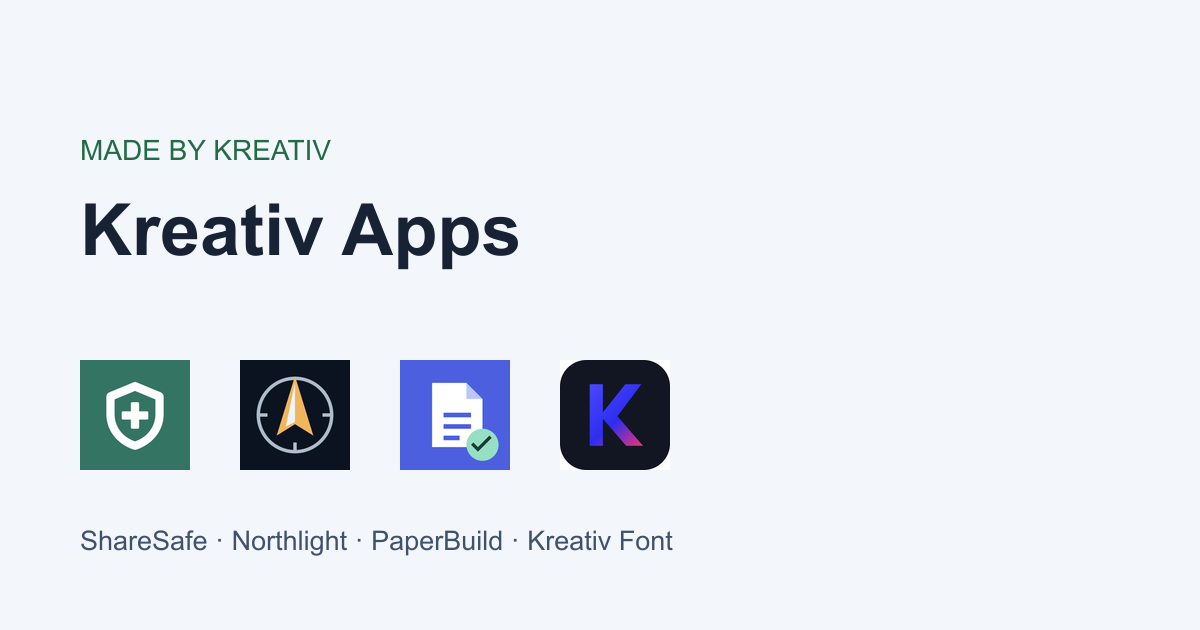
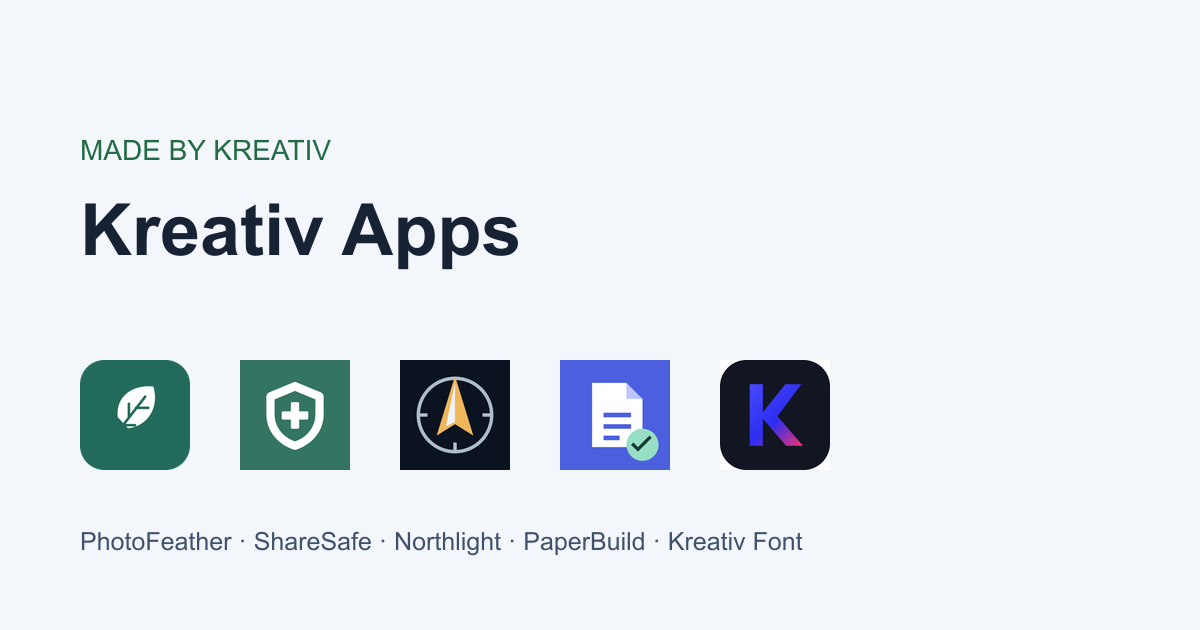
Publish PhotoFeather tutorial and app page

diff --git a/src/data/apps.ts b/src/data/apps.ts
@@ -20,6 +20,21 @@ export interface KreativApp {
 
 export const apps: KreativApp[] = [
   {
+    slug: "photofeather",
+    name: "PhotoFeather",
+    category: "Photo compression",
+    accessLabel: "Free",
+    privacyUrl: "/privacy/photofeather/",
+    privacyNote: "Photos are processed on-device, with no account, ads, analytics SDK or internet permission. Android's system picker may retrieve a photo from a cloud provider you choose.",
+    description: "Compress and resize photos for forms, email and sharing. Check measured results and save new JPEG copies while keeping your originals.",
+    proDescription: "All described features are included in version 1.0.0, with no purchases or subscriptions.",
+    screenshotWidth: 1188,
+    screenshotHeight: 2112,
+    stores: [{platform: "Android", name: "Google Play", url: "https://play.google.com/store/apps/details?id=com.kreativ.photofeather"}],
+    features: ["Choose a 200 KB, 500 KB, 1 MB or custom file-size target", "Resize with Small, Medium, Large or custom longest-edge settings", "Check actual file sizes and dimensions, compare before and after, then save or share new copies"],
+    limitation: "Output is lossy JPEG; quality and savings vary. Targets can reduce dimensions and may not always be met. Inputs are JPEG, PNG and static WebP. Metadata removal does not hide visible sensitive details.",
+  },
+  {
     slug: "sharesafe",
     name: "ShareSafe",
     category: "Photo privacy",

diff --git a/src/content.config.ts b/src/content.config.ts
@@ -11,7 +11,7 @@ const news = defineCollection({
     modifiedDate: z.date().optional(),
     category: z.enum(["Product", "Project", "Ecosystem", "Engineering"]),
     project: z.string().optional(),
-    app: z.enum(["sharesafe", "northlight", "paperbuild", "kreativ-font"]).optional(),
+    app: z.enum(["sharesafe", "northlight", "paperbuild", "kreativ-font", "photofeather"]).optional(),
     image: z.string().optional()
   })
 });

diff --git a/src/content/news/compress-photos-android-photofeather.md b/src/content/news/compress-photos-android-photofeather.md
@@ -1,0 +1,11 @@
+---
+title: "How to compress and resize photos on Android with PhotoFeather"
+description: "Prepare photos for upload limits, choose resize presets, inspect measured sizes and save new JPEG copies with PhotoFeather."
+dateLabel: "October 25, 2026"
+sortDate: 2026-10-25
+category: "Product"
+app: "photofeather"
+---
+
+<p>PhotoFeather helps make photos smaller for upload forms, email and messaging. This Android app processes images on your device, keeps your originals and creates new JPEG copies. It has no account, ads, purchases or subscriptions in version 1.0.0.</p><p><a href="https://play.google.com/store/apps/details?id=com.kreativ.photofeather&amp;utm_source=madebykreativ&amp;utm_medium=website&amp;utm_campaign=photofeather_launch_202610&amp;utm_content=tutorial_intro">Get PhotoFeather on Google Play</a></p><p>This guide uses the screenshots currently published on the developer’s Google Play listing, checked on 25 October 2026. The illustrated mountain is a demo image; results vary.</p><section><h2>1. Choose your photos</h2><p>Open PhotoFeather and tap Choose photos. Select one image or a batch in Android’s system picker. Supported inputs are JPEG, PNG and static WebP. HEIC/HEIF, AVIF, GIF and animated images are not supported. A cloud provider selected in the system picker may retrieve a photo; PhotoFeather processes the selected image on your device.</p><figure class="tutorial-screenshot"><a href="/images/photofeather/tutorial/01-select-photos.png"><img src="/images/photofeather/tutorial/01-select-photos.png" srcset="/images/photofeather/tutorial/01-select-photos-480.webp 480w, /images/photofeather/tutorial/01-select-photos-960.webp 960w" sizes="(max-width: 600px) calc(100vw - 4rem), 480px" decoding="async" alt="PhotoFeather home screen with Choose photos and on-device processing information." loading="lazy" width="1188" height="2112" /></a><figcaption>Current public-listing screenshot from PhotoFeather 1.0.0. Demo imagery; results vary.</figcaption></figure></section><section><h2>2. Decide how large the image should be</h2><p>In Output settings, choose Small (1280 px), Medium (1920 px), Large (2560 px) or a custom longest edge from 64 to 8192 pixels. These are pixel dimensions, not file sizes. The app preserves aspect ratio and never enlarges smaller photos. Check the planned width and height. For dimensions without a file-size target, select Resize only · no file size target.</p><figure class="tutorial-screenshot"><a href="/images/photofeather/tutorial/02-resize-presets.png"><img src="/images/photofeather/tutorial/02-resize-presets.png" srcset="/images/photofeather/tutorial/02-resize-presets-480.webp 480w, /images/photofeather/tutorial/02-resize-presets-960.webp 960w" sizes="(max-width: 600px) calc(100vw - 4rem), 480px" decoding="async" alt="PhotoFeather resize settings with 1280, 1920 and 2560 pixel presets, custom size and planned dimensions." loading="lazy" width="1188" height="2112" /></a><figcaption>Current public-listing screenshot from PhotoFeather 1.0.0. Demo imagery; results vary.</figcaption></figure></section><section><h2>3. Set a maximum file size, if needed</h2><p>For a form or attachment limit, choose 200 KB, 500 KB, 1 MB or Custom target. KB and MB measure the file size; pixels measure image dimensions. The app uses decimal units: 1 KB is 1000 bytes and 1 MB is 1000000 bytes. Tap Preview copies. Meeting a target can require lower JPEG quality or smaller dimensions. If a target cannot be met, the app explains it and does not offer that unsuccessful result for export.</p><figure class="tutorial-screenshot"><a href="/images/photofeather/tutorial/03-custom-resize.png"><img src="/images/photofeather/tutorial/03-custom-resize.png" srcset="/images/photofeather/tutorial/03-custom-resize-480.webp 480w, /images/photofeather/tutorial/03-custom-resize-960.webp 960w" sizes="(max-width: 600px) calc(100vw - 4rem), 480px" decoding="async" alt="PhotoFeather maximum file-size settings with 200 KB, 500 KB, 1 MB and custom target controls." loading="lazy" width="1188" height="2112" /></a><figcaption>Current public-listing screenshot from PhotoFeather 1.0.0. Demo imagery; results vary.</figcaption></figure></section><section><h2>4. Check the measured result</h2><p>In Your preview, compare the original and output sizes, the final dimensions and the percentage saved. The screenshot below shows one illustrated demo image; it is not a typical-savings promise. Savings depend on the input and settings. Planned dimensions can change further to meet a target or fit memory limits. Review any items needing attention. Larger or same-sized outputs require your explicit choice before export.</p><figure class="tutorial-screenshot"><a href="/images/photofeather/tutorial/04-measured-results.png"><img src="/images/photofeather/tutorial/04-measured-results.png" srcset="/images/photofeather/tutorial/04-measured-results-480.webp 480w, /images/photofeather/tutorial/04-measured-results-960.webp 960w" sizes="(max-width: 600px) calc(100vw - 4rem), 480px" decoding="async" alt="PhotoFeather measured result for a demo image, with original and output sizes, dimensions, Save selected and Share selected." loading="lazy" width="1188" height="2112" /></a><figcaption>Current public-listing screenshot from PhotoFeather 1.0.0. Demo imagery; results vary.</figcaption></figure></section><section><h2>5. Compare, then save or share a new copy</h2><p>Tap Compare before &amp; after, switch between Original and Output, and zoom or pan to inspect details. JPEG output is lossy, so check text, faces and other details that matter to you. Return to results, select successful copies and use Save selected or Share selected. PhotoFeather creates new JPEG files; it never overwrites or deletes originals. Transparent PNG and WebP inputs require an opaque background for JPEG output. The screenshots show the app UI, not Android’s native save or share dialogs.</p><figure class="tutorial-screenshot"><a href="/images/photofeather/tutorial/05-compare-photos.png"><img src="/images/photofeather/tutorial/05-compare-photos.png" srcset="/images/photofeather/tutorial/05-compare-photos-480.webp 480w, /images/photofeather/tutorial/05-compare-photos-960.webp 960w" sizes="(max-width: 600px) calc(100vw - 4rem), 480px" decoding="async" alt="PhotoFeather comparison view with Original, Output, Zoom out, Fit and Zoom in controls." loading="lazy" width="1188" height="2112" /></a><figcaption>Current public-listing screenshot from PhotoFeather 1.0.0. Demo imagery; results vary.</figcaption></figure></section><h2>What about metadata and privacy?</h2><p>Source metadata, including embedded location metadata, is removed from newly encoded JPEG copies and checked before export, according to the published release description. Visible faces, text and other sensitive details remain. Metadata removal does not anonymise a photo. PhotoFeather has no internet permission or advertising/analytics SDKs according to its listing. User-initiated sharing follows the receiving app’s policies.</p><h2>Why did my photo become smaller in pixels?</h2><p>A file-size target may need lower resolution as well as lower JPEG quality. Large inputs may also be reduced to fit memory limits. Check the final dimensions and comparison before saving. This is not lossless compression, and no app can promise identical visible quality for every JPEG conversion.</p><h2>Can I use dark mode?</h2><p>Yes. PhotoFeather supports dark mode, large text and labelled accessibility controls.</p><p><a href="https://madebykreativ.com/privacy/photofeather/">Read the privacy policy</a> · <a href="https://play.google.com/store/apps/details?id=com.kreativ.photofeather&amp;utm_source=madebykreativ&amp;utm_medium=website&amp;utm_campaign=photofeather_launch_202610&amp;utm_content=tutorial_footer">View PhotoFeather on Google Play</a></p>
+<p><a href="/apps/photofeather/">Explore PhotoFeather</a></p>
